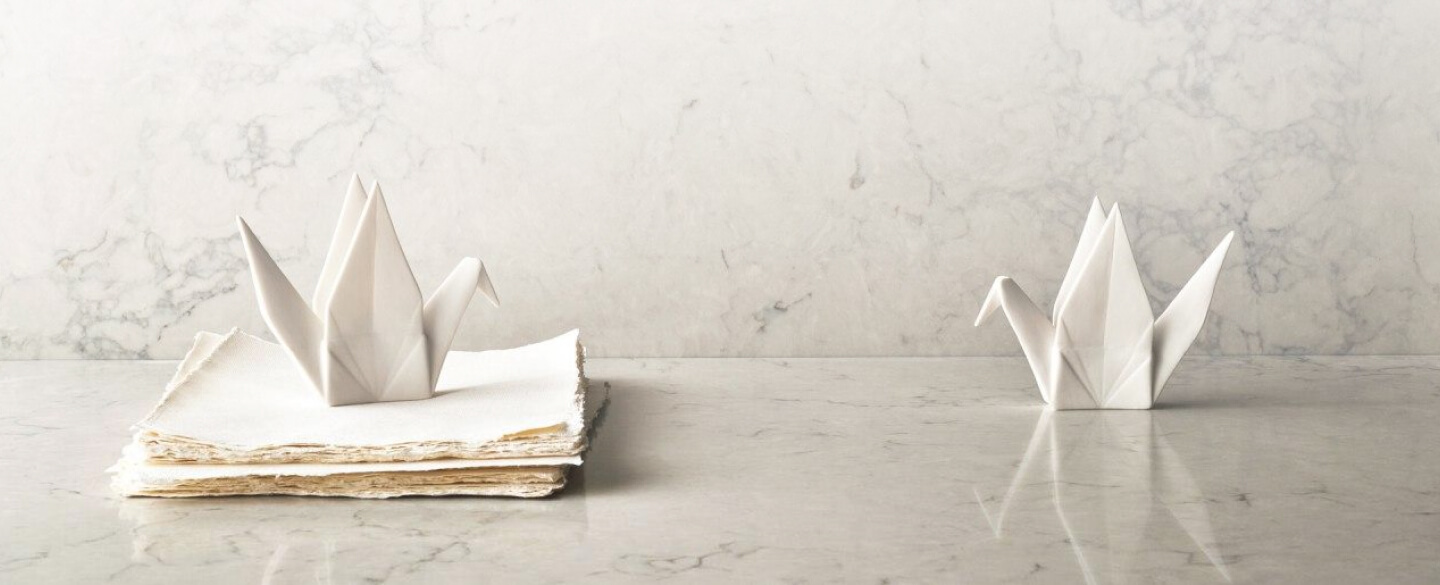
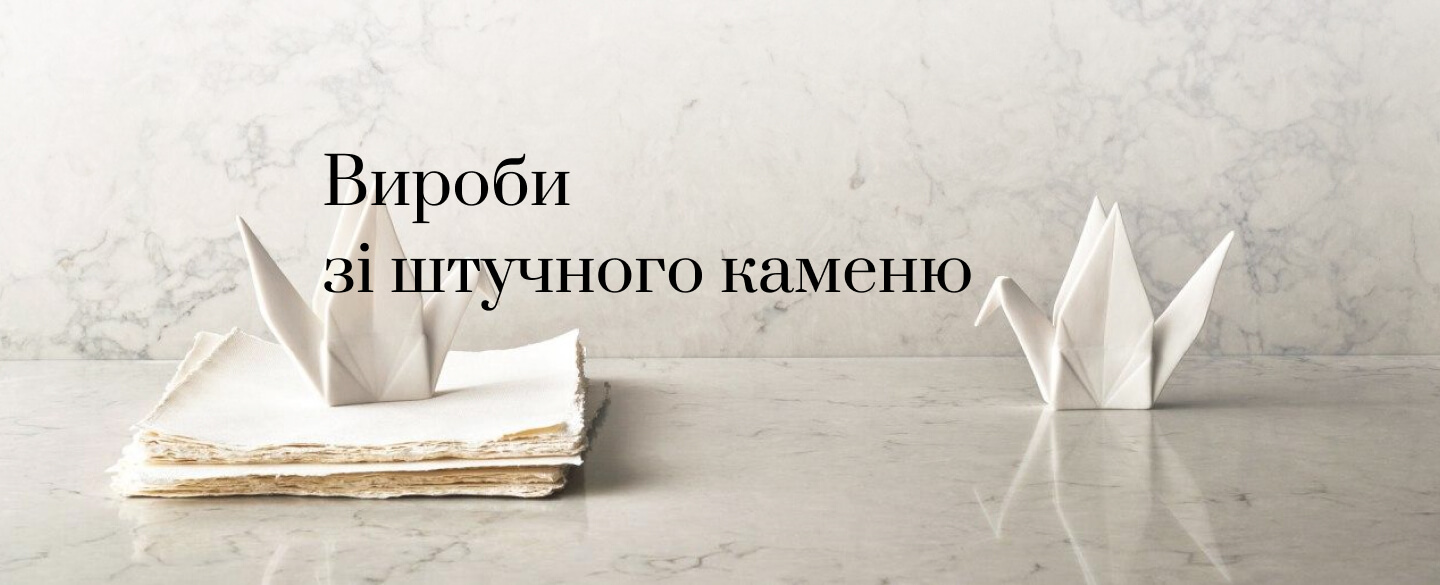
Сделал баннер - слайдер

Changed region(s): [[0.2188, 0.4308, 0.6875, 0.5231], [0.2188, 0.2462, 0.4062, 0.4]]

diff --git a/src/precss/styles.less b/src/precss/styles.less
@@ -1,6 +1,7 @@
 @import 'libs/smart-grid.less';
 @import 'libs/vars.less';
 @import 'libs/mixins.less';
+@import '../../node_modules/slick-carousel/slick/slick.less';
 
 /* Set defaults */
 
@@ -24,16 +25,6 @@ body{
 	line-height: 1.2;
 }
 
-.btn-reset{
-	appearance: none;
-  	border-radius: 0;
-  	opacity: 1;
-	border: none;
-	background-color: transparent;
-	font: inherit;
-	cursor: pointer;
-}
-
 ::-webkit-scrollbar{
 	width: 10px;
 	height: 5px;
@@ -45,9 +36,6 @@ body{
 	background-color: @scrollColor;
 }
 
-.ul-reset{
-	list-style: none;
-}
 
 .input{
 	font: inherit;
@@ -73,36 +61,17 @@ a{
 /* Atomic */
 
 .d-n{
-	display: none;
+	display: none !important;
 }
 
 .d-b{
-	display: block;
-}
-
-.d-f{
-	display: flex;
-}
-
-.ttu{
-	text-transform: uppercase;
-}
-
-.ta-c{
-	text-align: center;
+	display: block !important;
 }
 
 .ov-h{
 	overflow: hidden;
 }
 
-.ov-s{
-	overflow: scroll;
-}
-
-.black{
-	color: #000;
-}
 
 /* Global */
 
@@ -131,55 +100,9 @@ a{
 
 /* General */
 
-.schedule{
-	h2{
-		padding-bottom: 10px;
-		text-align: center;
-		position: relative;
-		&::after{
-			.pseudo();
-			width: 50%;
-			top: 100%;
-			left: 25%;
-			height: 2px;
-			background-color: rgb(33, 209, 33);
-		}
-	}
-
-	&__list{
-		padding: 40px 50px;
-		padding-right: 0;
-		position: relative;
-		list-style: none;
-		&::before,
-		&::after{
-			.pseudo();
-			border: 1px solid #ff00ff;
-			width: 40px;
-			height: 30px;
-			left: 20px;
-		}
-		&::before{
-			top: 0;
-			border-bottom: none;
-		}
-		&::after{
-			bottom: 0;
-			border-top: none;
-		}
-	}
-
-	&__item{
-		&::before,
-		&::after{
-			.pseudo();
-			height: 100%;
-			top: 0;
-			left: 20px;
-			border-left: 1px solid #ff00ff;
-		}
-		& + &{
-			margin-top: 20px;
-		}
+.banner-slider{
+	width: 100%;
+	&__container{
+		max-width: 100%;
 	}
 }

diff --git a/src/templates/index.html b/src/templates/index.html
@@ -7,15 +7,20 @@
 <main>
     <div class="banner-slider">
         <div class="banner-slider__container">
+        {% for i in range(1,5) %}
+            {% if loop.index === 1 %}
             <div class="banner-slider__slide">
-
+                <img class="banner-slider__img" src="img/banner{{i}}.jpg" alt="Фотографія стільниці із штучного каменю">
             </div>
+            {% else %}
             <div class="banner-slider__slide">
-
+                <img class="banner-slider__img" data-lazy="img/banner{{i}}.jpg" alt="Фотографія стільниці із штучного каменю">
             </div>
+            {% endif %}
+        {% endfor %}
         </div>
-        <h1 class="banner-slider__h">
-            <span class="sr-only">Vetta Stone - </span>
+        <h1 class="sr-only">
+            Vetta Stone - 
             Вироби зі штучного каменю
         </h1>
         <a 
@@ -113,7 +118,7 @@
             Наші роботи
         </h2>
         <ul class="portfolio__list">
-            {% for i in range(1,8)  %}
+            {% for i in range(1,9)  %}
             <li class="portfolio__example">
                 <figure class="portfolio__figure">
                     <img 

diff --git a/src/js/index.js b/src/js/index.js
@@ -1,1 +1,9 @@
-console.log('Hello, world!');
+import $ from 'jquery';
+import 'slick-carousel';
+
+$(function(){
+    $('.banner-slider__container').slick({
+        dots: true,
+        arrows: false
+    });
+});

diff --git a/src/precss/libs/mixins.less b/src/precss/libs/mixins.less
@@ -30,3 +30,13 @@
 		padding-bottom: @pb / 2;
 	});
 }
+
+.btn-reset(){
+	appearance: none;
+	border-radius: 0;
+	opacity: 1;
+	border: none;
+	background-color: transparent;
+	font: inherit;
+	cursor: pointer;
+}
